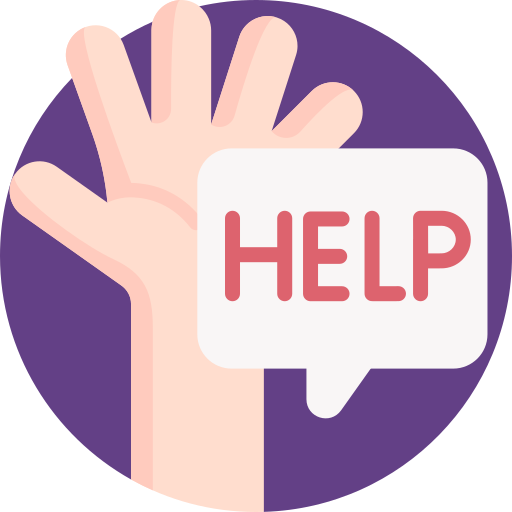
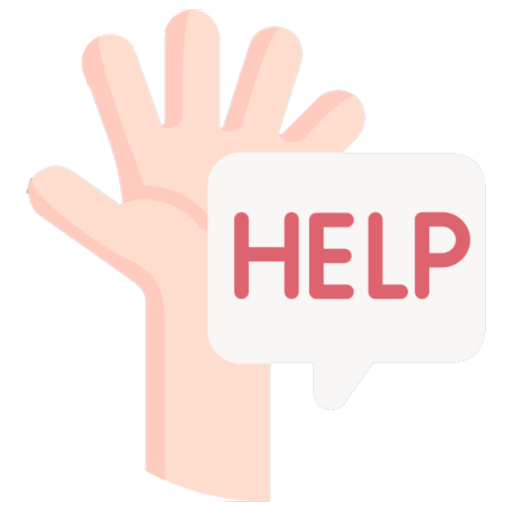
gh-50 styling dashboard, pupils and main

diff --git a/src/app/page.tsx b/src/app/page.tsx
@@ -9,11 +9,11 @@ export default async function Home() {
     <Main>
       <nav className="px-4 flex justify-between align-middle">
         <Image
-          className="m-0 size-10"
+          className="m-0 size-12"
           src="/logo.png"
           priority
-          width={40}
-          height={40}
+          width={50}
+          height={50}
           alt=""
         />
         <SignedOut>
@@ -31,7 +31,7 @@ export default async function Home() {
       </nav>
       <header className="flex flex-col items-center w-full md:flex-row md:pt-16 md:pb-20">
         <div className="md:flex md:items-center md:flex-col">
-          <h1 className="text-5xl pt-12 text-sky-900 md:text-7xl">
+          <h1 className="text-5xl pt-12 text-sky-900 md:text-7xl text-center">
             SciQuest Math
           </h1>
           <p className="text-center text-lg px-4 pb-4 m-0 text-sky-900 md:text-2xl md:pl-10">
@@ -50,9 +50,9 @@ export default async function Home() {
           />
         </div>
       </header>
-      <article className="text-justify md:flex md:justify-evenly ">
-        <section className="bg-sky-200 p-4 md:w-1/3 md:px-8 text-sky-950">
-          <h2 className="mt-4 md:text-3xl text-sky-950">For teacher 🧑🏼🏫</h2>
+      <article className="text-justify md:flex md:justify-evenly px-2">
+        <section className="bg-white p-4 md:w-1/3 md:px-8 text-sky-950 border-2 rounded-xl m-2">
+          <h2 className="mt-2 md:text-3xl text-green-600">For teacher</h2>
           <p>
             Our app empowers teachers with easy-to-use management tools.
             Teachers can effortlessly add students to the platform, track their
@@ -61,9 +61,10 @@ export default async function Home() {
             enables teachers to quickly identify areas where students may be
             struggling, ensuring that no one falls behind.
           </p>
+          <p className="text-7xl flex justify-center m-0">🧑🏼🏫</p>
         </section>
-        <section className="bg-sky-100 p-4 md:w-1/3 md:px-8 text-sky-950">
-          <h2 className="mt-4 md:text-3xl text-sky-950">In the classroom 🎒</h2>
+        <section className="bg-white p-4 md:w-1/3 md:px-8 text-sky-950 border-2 rounded-xl m-2">
+          <h2 className="mt-2 md:text-3xl text-yellow-500">In the classroom</h2>
           <p>
             Our Math Practice App is designed to be a seamless addition to the
             classroom environment. Whether it's during individual study time or
@@ -71,9 +72,12 @@ export default async function Home() {
             what they’ve learned. The real-time feedback and point system make
             learning math both fun and rewarding.
           </p>
+          <br />
+          <br />
+          <p className="text-7xl flex justify-center m-0">🎒</p>
         </section>
-        <section className="bg-sky-200 p-4 md:w-1/3 md:px-8 text-sky-950">
-          <h2 className="mt-4 md:text-3xl text-sky-950">For students 👦🏽👧🏻</h2>
+        <section className="bg-white p-4 md:w-1/3 md:px-8 text-sky-950 border-2 rounded-xl m-2">
+          <h2 className="mt-2 md:text-3xl text-blue-600">For students</h2>
           <p>
             Students are provided with an interactive and enjoyable way to
             practice math. As they solve the questions, the app keeps track of
@@ -81,14 +85,20 @@ export default async function Home() {
             motivates them to keep learning but also helps them see their own
             improvement over time.
           </p>
+          <br />
+          <br />
+          <br />
+          <p className="text-7xl flex justify-center m-0">👦🏽👧🏻</p>
         </section>
       </article>
-      <footer className="text-center flex justify-center p-4">
-        <p className="rounded-sm border boder-sky w-4/6 p-4 bg-sky-100">
+      <footer className="flex flex-col text-center md:p-10 md:pt-12 py-8 px-4">
+        <p className="font-bold text-2xl leading-8 m-0">
           We believe that with the right tools, learning math can be an
-          enjoyable journey. Our app is here to make that possible by providing
-          an interactive, supportive, and efficient learning platform for first
-          graders.
+          enjoyable journey.
+        </p>
+        <p className="m-0">
+          Our app is here to make that possible by providing an interactive,
+          supportive, and efficient learning platform for first graders.
         </p>
       </footer>
     </Main>

diff --git a/src/app/dashboard/page.tsx b/src/app/dashboard/page.tsx
@@ -2,6 +2,8 @@ import { getPupilsAction } from "@/actions";
 import { Pupil } from "@/types";
 import dynamic from "next/dynamic";
 import { AddPupilForm } from "../_components/add-pupil-form";
+import Image from "next/image";
+import Link from "next/link";
 
 const PupilRow = dynamic(() => import("../_components/pupil-row"), {
   ssr: false,
@@ -20,22 +22,40 @@ export default async function Dashboard() {
   });
 
   return (
-    <main className="flex flex-col w-full items-center p-8 bg-sky-100">
-      <table className="p-4 w-2/5">
-        <thead className="text-xl">
-          <tr>
-            <th>Name</th>
-            <th>Points</th>
-            <th>Help</th>
-          </tr>
-        </thead>
-        <tbody className="text-lg">
-          {pupils.map((pupil) => (
-            <PupilRow pupil={pupil} key={pupil.id} />
-          ))}
-        </tbody>
-      </table>
-      <AddPupilForm />
-    </main>
+    <>
+      <nav className="bg-sky-100 p-4 flex justify-between align-middle">
+        <Image
+          className="m-0 size-12"
+          src="/logo.png"
+          priority
+          width={50}
+          height={50}
+          alt=""
+        />
+        <Link
+          href={"/"}
+          className="border bg-sky-300 rounded-md p-2 no-underline"
+        >
+          Sign out
+        </Link>
+      </nav>
+      <main className="flex flex-col w-full items-center p-8 bg-sky-100">
+        <table className="p-4 w-2/5">
+          <thead className="text-xl">
+            <tr>
+              <th>Name</th>
+              <th>Points</th>
+              <th>Help</th>
+            </tr>
+          </thead>
+          <tbody className="text-lg">
+            {pupils.map((pupil) => (
+              <PupilRow pupil={pupil} key={pupil.id} />
+            ))}
+          </tbody>
+        </table>
+        <AddPupilForm />
+      </main>
+    </>
   );
 }

diff --git a/src/app/_components/points-bar.tsx b/src/app/_components/points-bar.tsx
@@ -13,7 +13,7 @@ export function PointsBar({
         answers.includes(problem.id) ? (
           <div
             key={problem.id}
-            className="bg-emerald-600 text-white rounded-full size-10 flex items-center justify-center"
+            className="bg-green-500 text-white rounded-full size-10 flex items-center justify-center"
           >
             <CheckIcon />
           </div>
@@ -24,7 +24,7 @@ export function PointsBar({
           />
         )
       )}
-      <div className="text-3xl bg-emerald-600 text-white size-14 rounded-full flex items-center justify-center">
+      <div className="text-3xl bg-green-500 text-white size-14 rounded-full flex items-center justify-center">
         {answers.length}
       </div>
     </div>

diff --git a/src/app/_components/problem.tsx b/src/app/_components/problem.tsx
@@ -46,14 +46,14 @@ export function Problem({ problems, pupil }: { problems: any[]; pupil: any }) {
           <button
             type="button"
             disabled
-            className="bg-sky-200 hover:bg-sky-100 p-2 rounded-md"
+            className="bg-sky-200 hover:bg-sky-100 text-black p-2 rounded-md"
           >
             Loading
           </button>
         ) : (
           <button
             type="submit"
-            className="bg-sky-200 hover:bg-sky-100 p-2 rounded-md"
+            className="bg-sky-200 hover:bg-sky-100 text-black p-2 rounded-md"
           >
             Check
           </button>

diff --git a/src/app/_components/help-button.tsx b/src/app/_components/help-button.tsx
@@ -6,12 +6,12 @@ import Image from "next/image";
 export function HelpButton({ id, help }: { id: string; help: number }) {
   return (
     <button
-      className="rounded-full p-4 bg-red-700 hover:bg-green-500"
+      className="rounded-full p-4 bg-neutral-500 hover:bg-green-500"
       onClick={() => pupilHelpAction(id, help)}
     >
       <Image
         className="m-0"
-        src="/help1.png"
+        src="/help.png"
         priority
         width={150}
         height={150}

diff --git a/src/app/_components/category-menu.tsx b/src/app/_components/category-menu.tsx
@@ -18,6 +18,14 @@ export function CategoryMenu() {
     <aside
       className={`${concert.className} flex flex-col text-7xl gap-8 p-4 pt-6`}
     >
+      <Image
+        className="m-0 size-12 ml-4 lg:ml-8"
+        src="/logo.png"
+        priority
+        width={50}
+        height={50}
+        alt=""
+      />
       <button
         className="flex items-center justify-center rounded-lg"
         onClick={() => setCategory("1")}

diff --git a/src/app/[id]/page.tsx b/src/app/[id]/page.tsx
@@ -33,7 +33,7 @@ export default async function PupilPage({
           <Problem problems={problems} pupil={pupil} />
         </div>
       </section>
-      <section className="lg:w-1/3 flex flex-col items-center pt-4 pr-2 lg:gap-12 lg:pt-32">
+      <section className="lg:w-1/3 flex flex-col items-center pt-4 pr-4 lg:gap-12 lg:pt-32">
         <HelpButton id={params.id} help={pupil.help} />
       </section>
     </main>
